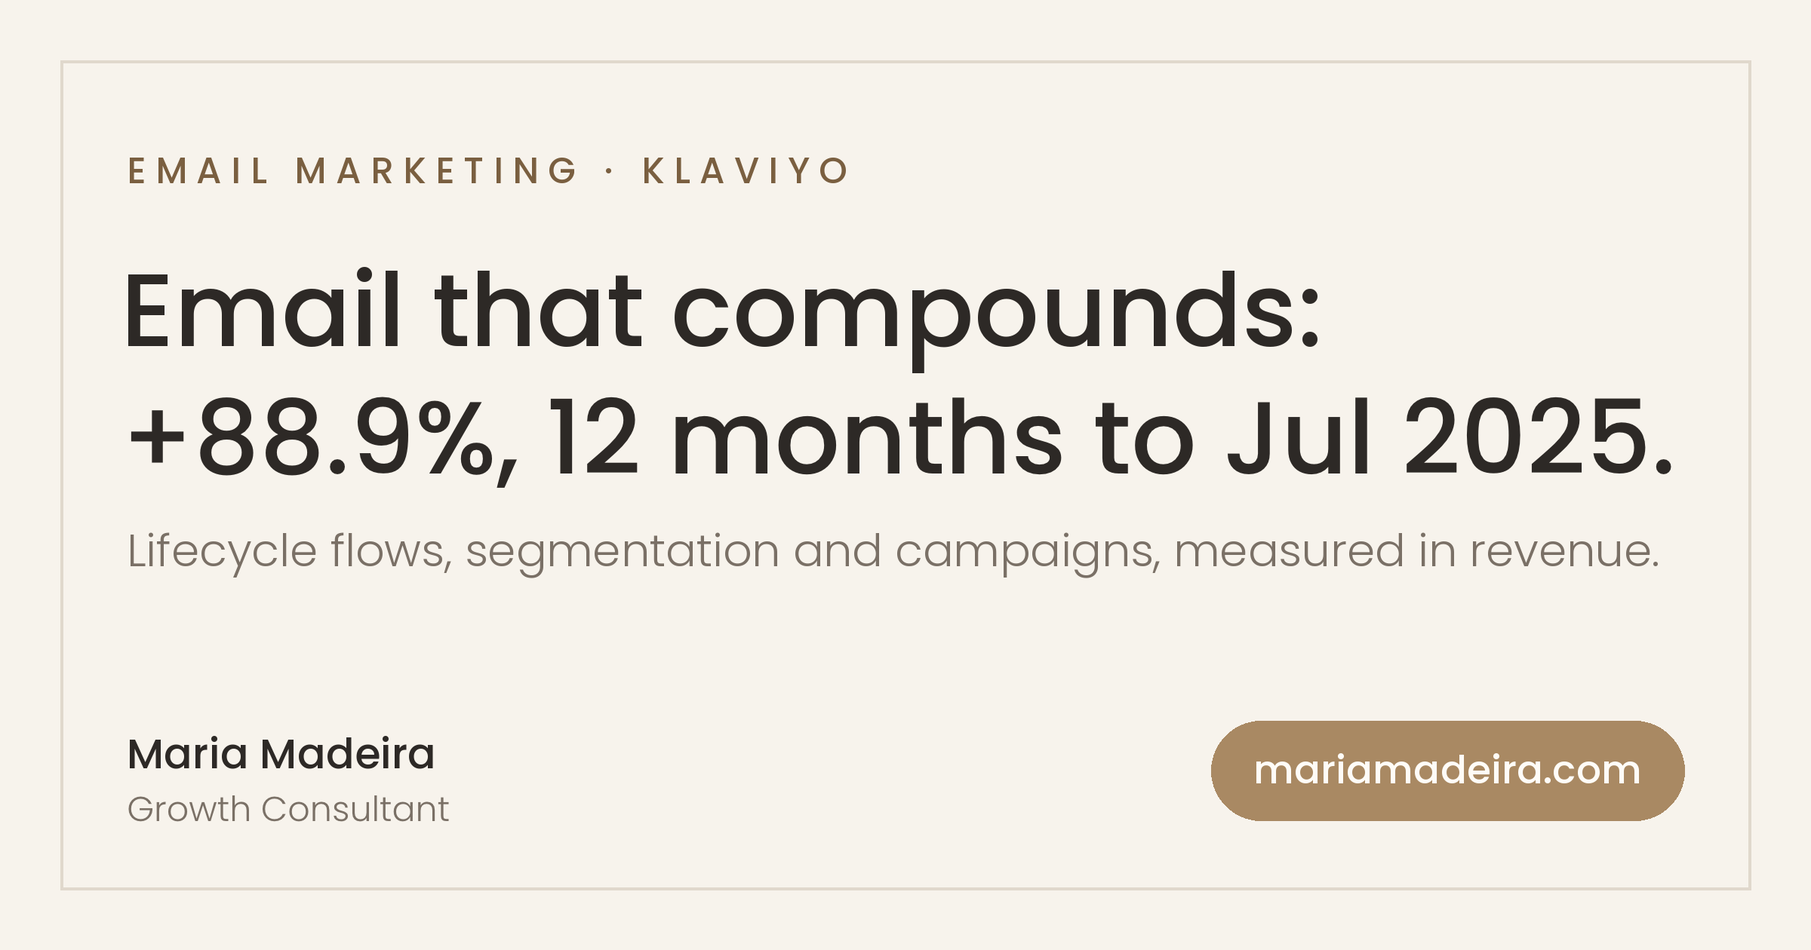
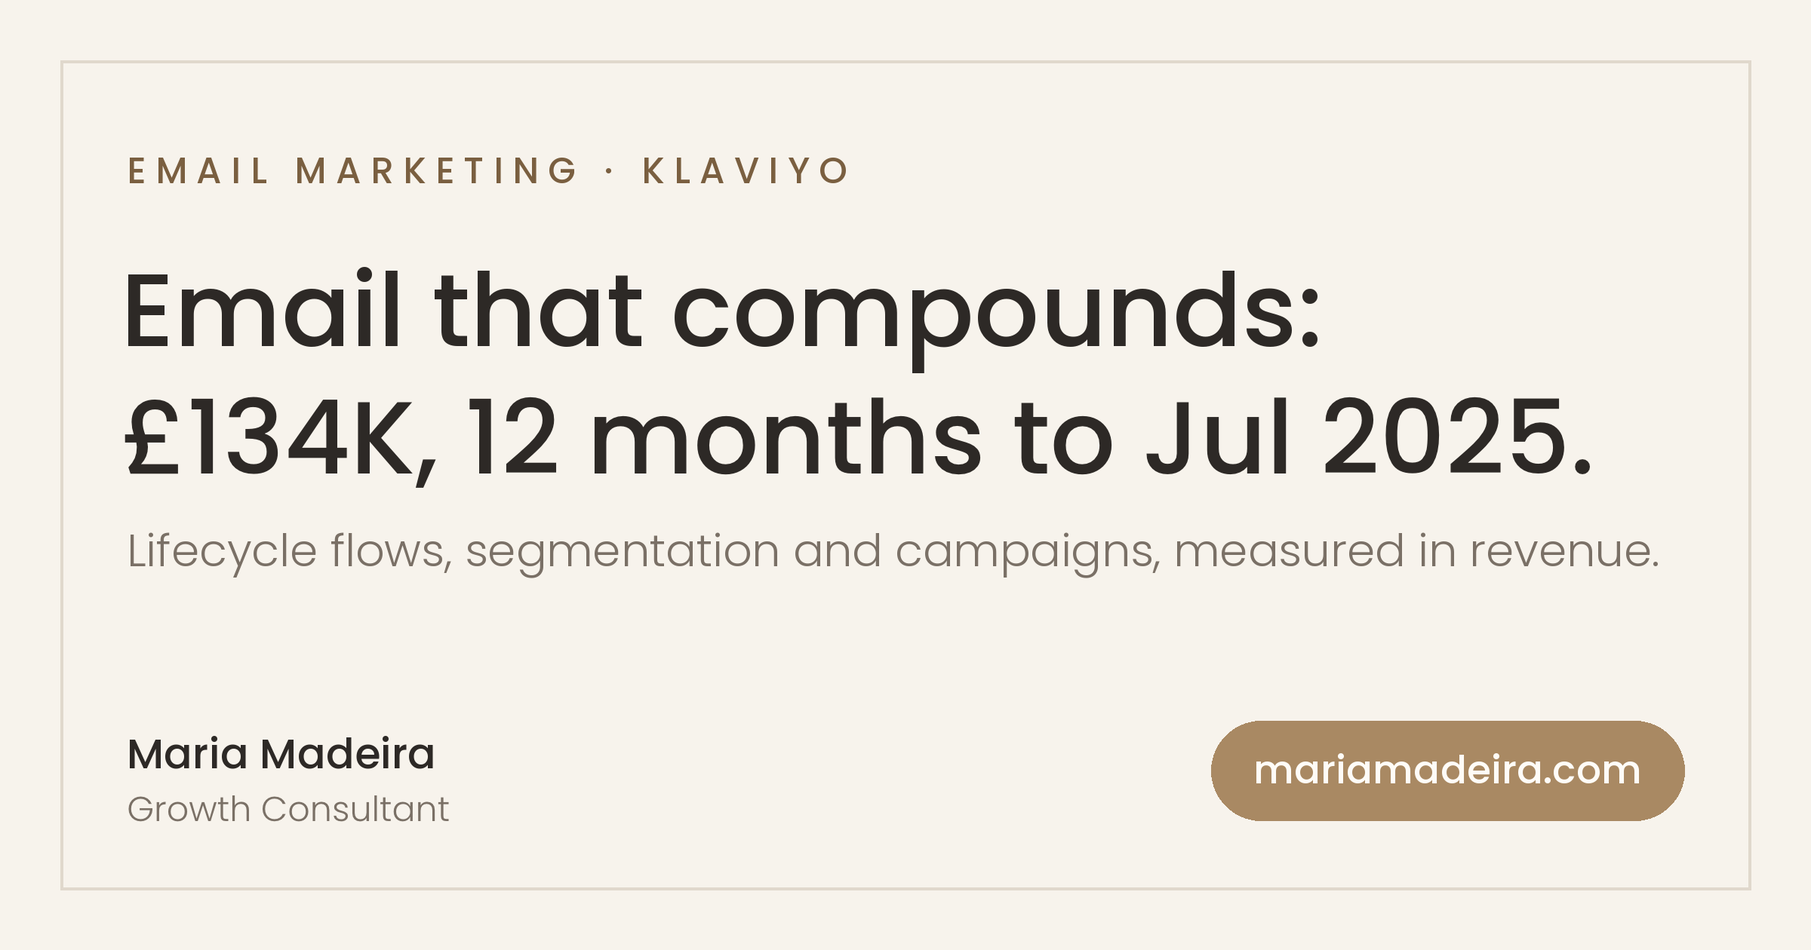
Compliance pass: owner's Parts 1-3 and OG numbers, verified
Five years of experience everywhere, with the email data period written
out (September 2021 to July 2025). The Black Farmer only on /about,
/pt/sobre, the SEO case study, the homepage logo strip and Wilfred's
testimonial; never in the Person schema or near email revenue. Email
numbers and labels follow Maria's Klaviyo exports: c. £71K -> £134K
(+88.9%), calendar-year chart 2022-2024 only, 50.4% average campaign
open rate (12 months to July 2025) vs 28.1% in 2022, over a third of
store revenue. OG cards for the email and SEO case studies and the
email service redrawn to match. Independent verification and fix pass
done; build, lint and Playwright checks clean.

Changed region(s): [[0.0625, 0.4024, 0.9375, 0.5262]]

diff --git a/src/i18n/pt/about.ts b/src/i18n/pt/about.ts
@@ -33,7 +33,7 @@ const pt: typeof en = {
     paragraphs: [
         "Sou consultora de crescimento independente, baseada em Lisboa. Ajudo marcas de e-commerce em Portugal e no Reino Unido a serem encontradas no Google e na pesquisa com IA, e a crescer com email marketing no Klaviyo e anúncios pagos. Sou Klaviyo Partner oficial.",
         "Durante cinco anos trabalhei com Wilfred Emmanuel-Jones no negócio online da The Black Farmer: email, e-commerce, anúncios, SEO, criativos e o lançamento da app. Hoje faço o mesmo trabalho, de forma independente, para marcas no Reino Unido e em Portugal.",
-        "A maior parte da minha experiência é em e-commerce de alimentação e bebidas, e os resultados estão publicados com os números e os períodos. Um programa no Klaviyo para uma marca de alimentação premium do Reino Unido passou de três para catorze fluxos automáticos e trouxe £134K nos 12 meses até julho de 2025, mais de um terço da receita da loja. O Google Ads para uma marca de alimentação do Reino Unido teve um retorno de 532% face a um ponto de equilíbrio de 400% em onze meses. O SEO e a pesquisa com IA para a The Black Farmer, depois da mudança de WooCommerce para Shopify, trouxeram mais 78% de cliques orgânicos em quatro meses.",
+        "A maior parte da minha experiência é em e-commerce de alimentação e bebidas, e os resultados estão publicados com os números e os períodos. Um programa no Klaviyo para uma marca de alimentação premium do Reino Unido passou de três para catorze fluxos automáticos. O Google Ads para uma marca de alimentação do Reino Unido teve um retorno de 532% face a um ponto de equilíbrio de 400% em onze meses. O SEO e a pesquisa com IA para a The Black Farmer, depois da mudança de WooCommerce para Shopify, trouxeram mais 78% de cliques orgânicos em quatro meses.",
         "Os sites fazem parte do mesmo trabalho. Em Portugal, construí um site de reservas bilingue para a The Bodysurf School, no ar num mês, com pagamentos por MB Way e Multibanco para cinco locais na costa. Para a dePapier Translations, uma tradutora certificada, tratei do domínio próprio e do email profissional e construí um site bilingue em cerca de sete semanas.",
         "Fala diretamente com quem faz o trabalho. Trago os dados do Google Search Console, do Semrush e do Ahrefs, uso a IA para me ajudar a analisá-los e a redigir, e sou eu quem decide e aprova tudo o que vai para o ar. As campanhas de anúncios correm nas suas próprias contas, que ficam consigo. Trabalho em português e em inglês, à distância, no fuso horário do Reino Unido, que é o de Portugal.",
         "Antes do marketing, estudei design de moda e têxtil e depois jornalismo, e em 2025 fiz uma pós-graduação em IA para o design. A lista completa de certificações e formação está abaixo, com links para verificar os certificados do Klaviyo.",

diff --git a/src/i18n/en/about.ts b/src/i18n/en/about.ts
@@ -11,7 +11,7 @@ const en = {
     paragraphs: [
         "I'm an independent growth consultant based in Lisbon, Portugal. I help e-commerce brands in the UK and Portugal get found on Google and in AI search, and grow revenue with Klaviyo email marketing and paid ads. I'm an official Klaviyo Partner.",
         "For five years I worked with Wilfred Emmanuel-Jones on The Black Farmer's online business: email, e-commerce, ads, SEO, creative and the launch of the app. Today I do the same work, independently, for brands in the UK and Portugal.",
-        "Most of my experience is in food and drink e-commerce, and the results are published with their figures and periods. A Klaviyo programme for a UK premium food brand grew from three automated flows to fourteen and brought in £134K in the 12 months to July 2025, over a third of store revenue. Google Ads for a UK food brand returned 532% against a 400% break-even over eleven months. SEO and AI search for The Black Farmer, after its move from WooCommerce to Shopify, lifted organic clicks 78% in four months.",
+        "Most of my experience is in food and drink e-commerce, and the results are published with their figures and periods. A Klaviyo programme for a UK premium food brand grew from three automated flows to fourteen. Google Ads for a UK food brand returned 532% against a 400% break-even over eleven months. SEO and AI search for The Black Farmer, after its move from WooCommerce to Shopify, lifted organic clicks 78% in four months.",
         "Websites are part of the same work. In Portugal I built a bilingual booking site for The Bodysurf School, live in one month, with MB Way and Multibanco payments across five locations on the coast. For dePapier Translations, a certified translator, I set up her own domain and business email and built a bilingual site in about seven weeks.",
         "You speak to the person doing the work. I bring the data from Google Search Console, Semrush and Ahrefs, use AI to help analyse it and draft, and decide and approve everything that goes live myself. Ad campaigns run in your own accounts, and you keep them. I work in English and Portuguese, remotely, in the UK time zone.",
         "Before marketing I studied fashion and textile design, then journalism, and in 2025 I took a postgraduate programme in AI for design. The full list of certificates and education is below, with links to verify the Klaviyo certificates.",

diff --git a/src/i18n/pt/caseStudyEmail.ts b/src/i18n/pt/caseStudyEmail.ts
@@ -5,6 +5,7 @@ const pt: typeof en = {
     path: "/pt/caso-email",
     title: "Caso de estudo Klaviyo: £134K num ano | Maria Madeira",
     description: "Caso Klaviyo: £134K de receita de email nos 12 meses até julho de 2025, +88,9% face a c. £71K nos 12 meses anteriores (até julho de 2024).",
+    ogImageAlt: "Receita de email: c. £71K nos 12 meses anteriores (até julho de 2024) para £134K nos 12 meses até julho de 2025, marca de alimentação premium do Reino Unido",
     h1: "De setembro de 2021 a julho de 2025: o email chegou a £134K por ano e a mais de um terço da receita da loja",
     subtitle: "Um programa de email no Klaviyo, ao longo de todo o ciclo de vida do cliente, para uma marca de alimentação premium do Reino Unido: a receita de email atribuída chegou a £134K nos 12 meses até julho de 2025, mais 88,9% face a c. £71K nos 12 meses anteriores (até julho de 2024).",
     breadcrumb: "Email marketing",
@@ -31,7 +32,7 @@ const pt: typeof en = {
     rates: [
         { before: "28,1%", after: "50,4%", badge: "percentil 78", label: "taxa de abertura média das campanhas, 2022 vs. 12 meses até julho de 2025, face ao benchmark do setor do Klaviyo" },
         { before: null, after: "mais de um terço", badge: null, label: "da receita total da loja atribuída ao email, 12 meses até julho de 2025" },
-        { before: "8,5%", after: "7,3%", badge: "-1,2 pontos", label: "taxa de clique dos fluxos, 2024 vs. 12 meses até julho de 2025, com muitas mais pessoas a receber fluxos" },
+        { before: "8,5%", after: "7,3%", badge: null, label: "taxa de clique dos fluxos, 2024 vs. 12 meses até julho de 2025, com muitas mais pessoas a receber fluxos" },
     ],
     impactTitle: "Impacto principal",
     impact: "A receita de email atribuída subiu em todos os anos civis: £66,3K em 2022, £76,2K em 2023 e £113K em 2024. Nos 12 meses até julho de 2025 chegou a £134K, mais 88,9% face a c. £71K nos 12 meses anteriores (até julho de 2024), com £86,1K das campanhas e £48,3K dos fluxos. A taxa de abertura média das campanhas subiu de 28,1% em 2022 para 50,4% nos 12 meses até julho de 2025, e a receita das campanhas por destinatário de £0,030 para £0,081 nos mesmos dois períodos.",

diff --git a/src/i18n/en/caseStudyEmail.ts b/src/i18n/en/caseStudyEmail.ts
@@ -5,6 +5,8 @@ const en = {
     // title is a shorter sibling. The schema headline still carries the H1.
     title: "Klaviyo Case Study: £134K a Year From Email | Maria Madeira",
     description: "Klaviyo case study, UK premium food brand: £134K email revenue in the 12 months to July 2025, +88.9% on c. £71K in the previous 12 months (to July 2024).",
+    /* Describes the OG image (c. £71K to £134K, two 12-month windows). */
+    ogImageAlt: "Email revenue: c. £71K in the previous 12 months (to July 2024) to £134K in the 12 months to July 2025, UK premium food brand",
     h1: "September 2021 to July 2025: email grew to £134K a year and over a third of store revenue",
     // The client is not named on this page, so the brand is described rather
     // than identified. The hero subtitle doubles as the schema description.
@@ -34,7 +36,7 @@ const en = {
     rates: [
         { before: "28.1%" as string | null, after: "50.4%", badge: "78th percentile" as string | null, label: "average campaign open rate, 2022 vs the 12 months to July 2025, against Klaviyo's industry benchmark" },
         { before: null as string | null, after: "over a third", badge: null as string | null, label: "of total store revenue attributed to email, 12 months to July 2025" },
-        { before: "8.5%" as string | null, after: "7.3%", badge: "-1.2 pts" as string | null, label: "flow click rate, 2024 vs 12 months to July 2025, as far more people received flows" },
+        { before: "8.5%" as string | null, after: "7.3%", badge: null as string | null, label: "flow click rate, 2024 vs 12 months to July 2025, as far more people received flows" },
     ],
     impactTitle: "Key Impact",
     impact: "Attributed email revenue rose every calendar year: £66.3K in 2022, £76.2K in 2023 and £113K in 2024. In the 12 months to July 2025 it reached £134K, up 88.9% on c. £71K in the previous 12 months (to July 2024), with £86.1K from campaigns and £48.3K from flows. The average campaign open rate rose from 28.1% in 2022 to 50.4% in the 12 months to July 2025, and campaign revenue per recipient from £0.030 to £0.081 over the same two periods.",

diff --git a/src/i18n/pt/klaviyoFlows.ts b/src/i18n/pt/klaviyoFlows.ts
@@ -114,10 +114,10 @@ const pt: typeof en = {
     v6Automated: "Email automático",
     v6Note: "Os dados da Omnisend sobre 150 000 marcas mostram quase exatamente a mesma diferença: os emails automáticos renderam 16 vezes mais por envio.",
 
-    real4: "Em 2024, os fluxos trouxeram 43% da receita de email desta marca, muito perto dos 41% dos benchmarks do Klaviyo.",
+    real4: "Em 2024, os fluxos trouxeram £48,2K dos £113K de receita de email desta marca, perto da quota de 41% dos benchmarks do Klaviyo.",
 
     oneFlowTitle: "Um fluxo pagou tudo o resto",
-    oneFlow: "O fluxo que mais rendeu não foi uma automação nova e engenhosa. Foi a série de boas-vindas para a lista das caixas da marca, que sozinha trouxe £23,6K nos doze meses até julho de 2025.",
+    oneFlow: "O fluxo que mais rendeu não foi uma automação nova e engenhosa. Foi a série de boas-vindas para a lista das caixas da marca, que sozinha trouxe £23,6K nos 12 meses até julho de 2025.",
 
     v7Big: "£23,6K",
     v7Line: "de uma só série de boas-vindas, 12 meses até julho de 2025",
@@ -132,7 +132,7 @@ const pt: typeof en = {
     v7Caption: "Exemplo ilustrativo, não é o email real da marca.",
 
     honestTitle: "A parte honesta",
-    honest: "Nem todos os números subiram. À medida que entravam mais fluxos no ar, a taxa de clique dos fluxos desceu de 8,5% em 2024 para 7,3% nos doze meses até julho de 2025, enquanto muitas mais pessoas passaram a receber fluxos. Mais fluxos chegam a mais pessoas, mas cada um precisa dos seus próprios testes, senão a média desce.",
+    honest: "Nem todos os números subiram. À medida que entravam mais fluxos no ar, a taxa de clique dos fluxos desceu de 8,5% em 2024 para 7,3% nos 12 meses até julho de 2025, enquanto muitas mais pessoas passaram a receber fluxos. Mais fluxos chegam a mais pessoas, mas cada um precisa dos seus próprios testes, senão a média desce.",
 
     v8Title: "Os seus primeiros 30 dias de fluxos",
     weeks: [

diff --git a/src/i18n/en/klaviyoFlows.ts b/src/i18n/en/klaviyoFlows.ts
@@ -120,10 +120,10 @@ const en = {
     v6Automated: "Automated email",
     v6Note: "Omnisend's data across 150,000 brands found almost exactly the same gap: automated emails earned 16 times more per send.",
 
-    real4: "In 2024, flows brought in 43% of this brand's email revenue, very close to the 41% in Klaviyo's benchmarks.",
+    real4: "In 2024, flows brought in £48.2K of this brand's £113K email revenue, close to the 41% share in Klaviyo's benchmarks.",
 
     oneFlowTitle: "One flow paid for everything else",
-    oneFlow: "The single biggest earner wasn't a clever new automation. It was the welcome series for the brand's box list, which brought in £23.6K in the twelve months to July 2025 on its own.",
+    oneFlow: "The single biggest earner wasn't a clever new automation. It was the welcome series for the brand's box list, which brought in £23.6K in the 12 months to July 2025 on its own.",
 
     /* Visual 7: an invented brand's welcome email */
     v7Big: "£23.6K",
@@ -139,7 +139,7 @@ const en = {
     v7Caption: "Illustrative example, not the brand's actual email.",
 
     honestTitle: "The honest part",
-    honest: "Not every number went up. As more flows went live, flow click rate fell from 8.5% in 2024 to 7.3% in the twelve months to July 2025, while far more people were receiving flows. More flows reach more people, but each one needs its own testing, or the average slips.",
+    honest: "Not every number went up. As more flows went live, flow click rate fell from 8.5% in 2024 to 7.3% in the 12 months to July 2025, while far more people were receiving flows. More flows reach more people, but each one needs its own testing, or the average slips.",
 
     /* Visual 8: the first 30 days */
     v8Title: "Your first 30 days of flows",

diff --git a/src/i18n/pt/caseStudySeo.ts b/src/i18n/pt/caseStudySeo.ts
@@ -27,7 +27,7 @@ const pt: typeof en = {
     searchSubline: "Google Search Console, períodos comparáveis de 28 dias, de maio a agosto de 2026",
     searchTop: [
         { before: "4,5K", after: "8,0K", badge: "+78%", label: "cliques orgânicos" },
-        { before: "15,2", after: "9,4", badge: "5,8 posições acima", label: "posição média no Google, em todas as pesquisas" },
+        { before: "15,2", after: "9,4", badge: "mais acima no Google", label: "posição média no Google, em todas as pesquisas" },
         { before: "479K", after: "997K", badge: "+108%", label: "impressões na pesquisa" },
     ],
     searchMore: [
@@ -63,6 +63,8 @@ const pt: typeof en = {
     quote: "what meat has no gluten? give me a list of gluten-free sausages",
     quoteNote: "(pesquisa original em inglês)",
     quoteCaption: "Uma pesquisa real, em forma de conversa, registada no Search Console. A página Gluten-Free Sausages apareceu na resposta e foi clicada: o primeiro clique documentado do site vindo de uma pergunta ao estilo da IA.",
+    visibilityLabels: ["Líder da categoria", "The Black Farmer", "Concorrente", "Concorrente", "Concorrente"],
+    visibilityDesc: "Gráfico de barras horizontais com a pontuação no Semrush AI Visibility de cinco marcas acompanhadas. O líder da categoria tem 31, a The Black Farmer 27 e outros três concorrentes 22, 22 e 14. Só a The Black Farmer está destacada.",
     sources: "Fontes: Google Search Console (relatório Generative AI features, disponível desde 18 de maio de 2026), Semrush AI Visibility, agosto de 2026.",
     serviceLink: "SEO e AEO",
     nextLink: "Google Ads: cinco libras de retorno por cada libra investida",

diff --git a/src/i18n/en/caseStudySeo.ts b/src/i18n/en/caseStudySeo.ts
@@ -21,7 +21,7 @@ const en = {
     searchSubline: "Google Search Console, matched 28-day windows, May to August 2026",
     searchTop: [
         { before: "4.5K", after: "8.0K", badge: "+78%", label: "organic clicks" },
-        { before: "15.2", after: "9.4", badge: "5.8 places higher", label: "average Google position, across all queries" },
+        { before: "15.2", after: "9.4", badge: "higher on Google", label: "average Google position, across all queries" },
         { before: "479K", after: "997K", badge: "+108%", label: "search impressions" },
     ],
     searchMore: [
@@ -60,6 +60,10 @@ const en = {
     quote: "what meat has no gluten? give me a list of gluten-free sausages",
     quoteNote: "",
     quoteCaption: "A real conversational query from Search Console. The Gluten-Free Sausages page was shown in the answer and clicked: the site's first documented click from an AI-style question.",
+    /* AI Visibility chart: kept here, not in resultCharts.ts, so the client's
+       name ships only with this case study. */
+    visibilityLabels: ["Category leader", "The Black Farmer", "Competitor", "Competitor", "Competitor"],
+    visibilityDesc: "Horizontal bar chart of Semrush AI Visibility scores across five tracked brands. The category leader scores 31, The Black Farmer 27, and three further competitors score 22, 22 and 14. Only The Black Farmer is highlighted.",
     sources: "Sources: Google Search Console (Generative AI features report, available from 18 May 2026), Semrush AI Visibility, August 2026.",
     serviceLink: "SEO and AEO",
     nextLink: "Google Ads: five pounds back for every pound spent",

diff --git a/src/components/ResultCharts.tsx b/src/components/ResultCharts.tsx
@@ -540,9 +540,9 @@ function AiImpressionsLine({ variant, desc }: ChartVariantProps) {
 }
 
 /* ── Chart: Semrush AI Visibility across the tracked set ── */
-function AiVisibilityBars({ variant, desc }: ChartVariantProps) {
+function AiVisibilityBars({ variant, desc, labels }: ChartVariantProps & { labels: string[] }) {
     const c = COPY[useLang().lang].ai;
-    const rows = VISIBILITY.map((row, i) => ({ ...row, label: c.visibilityLabels[i] }));
+    const rows = VISIBILITY.map((row, i) => ({ ...row, label: labels[i] }));
     const wide = variant === "wide";
     const X_MAX = 35;
 
@@ -622,17 +622,18 @@ export function AiImpressionsChart() {
 }
 
 /** Horizontal bars of Semrush AI Visibility across the tracked set. */
-export function AiVisibilityChart() {
+/** Bar labels and description come from the SEO case study copy, which names
+ *  the client; this module also ships with the email and Google Ads case studies. */
+export function AiVisibilityChart({ labels, desc }: { labels: string[]; desc: string }) {
     const c = COPY[useLang().lang].ai;
-    const desc = c.visibilityDesc;
     return (
         <ChartFigure
             title={c.visibilityTitle}
             subtitle={c.visibilitySubtitle}
             headingLevel={3}
         >
-            <AiVisibilityBars variant="wide" desc={desc} />
-            <AiVisibilityBars variant="narrow" desc={desc} />
+            <AiVisibilityBars variant="wide" desc={desc} labels={labels} />
+            <AiVisibilityBars variant="narrow" desc={desc} labels={labels} />
         </ChartFigure>
     );
 }

diff --git a/src/i18n/pt/aiInformation.ts b/src/i18n/pt/aiInformation.ts
@@ -31,7 +31,7 @@ const pt: typeof en = {
     resultsTitle: "Resultados publicados",
     results: [
         { to: "/case-study-seo", lead: "Caso de estudo de SEO e AEO, depois de uma mudança para Shopify", rest: ": as impressões diárias nas funcionalidades de IA da Google cresceram 2,2x, da primeira para a última semana, de maio a agosto de 2026." },
-        { to: "/case-study-email", lead: "Email marketing para uma marca de alimentação premium do Reino Unido", rest: ": £134K vindos do email nos doze meses até julho de 2025, mais de um terço da receita da loja." },
+        { to: "/case-study-email", lead: "Email marketing para uma marca de alimentação premium do Reino Unido", rest: ": £134K vindos do email nos 12 meses até julho de 2025, mais de um terço da receita da loja." },
         { to: "/case-study-google-ads", lead: "Google Ads para uma marca de alimentação do Reino Unido", rest: ": um retorno do investimento em anúncios de 532% face a um ponto de equilíbrio de 400%, £141K de receita atribuída a partir de £26,5K de investimento em anúncios, entre 1 de outubro de 2025 e 26 de agosto de 2026, com dez de onze meses acima do ponto de equilíbrio." },
     ],
     howTitle: "Como trabalha",

diff --git a/src/i18n/pt/emailMarketing.ts b/src/i18n/pt/emailMarketing.ts
@@ -25,7 +25,7 @@ const pt: typeof en = {
     definitionTitle: "Como é um bom email marketing",
     definition: "O email marketing de ciclo de vida gera receita num canal que é seu, com fluxos automáticos, segmentação e campanhas, e não com newsletters avulsas. Envia a mensagem certa ao cliente certo no momento certo, e mede-se em receita atribuída, não em aberturas.",
     curveTitle: "A curva que se acumula",
-    curveSub: "Números reais de um só cliente, do início até hoje.",
+    curveSub: "Números reais de um só cliente, de 2022 a julho de 2025.",
     curve: [
         { title: "Taxa de abertura média das campanhas", from: { label: "2022", value: "28,1%" }, to: { label: "12 meses até jul. 2025", value: "50,4%" }, note: "Percentil 78 face à referência do setor do Klaviyo, nos 12 meses até julho de 2025" },
         { title: "Receita atribuída ao email", from: { label: "12 meses anteriores (até jul. 2024)", value: "c. £71K" }, to: { label: "12 meses até jul. 2025", value: "£134K" }, note: "+88,9% face aos 12 meses anteriores (até julho de 2024)" },

diff --git a/src/i18n/en/emailMarketing.ts b/src/i18n/en/emailMarketing.ts
@@ -32,7 +32,7 @@ const en = {
     definitionTitle: "What great email looks like",
     definition: "Lifecycle email marketing is owned-channel revenue built on automated flows, segmentation and campaigns, not one-off newsletters. It sends the right message to the right customer at the right moment, and it is measured in attributed revenue rather than opens.",
     curveTitle: "The compounding curve",
-    curveSub: "Real figures from one engagement, start to now.",
+    curveSub: "Real figures from one engagement, 2022 to July 2025.",
     curve: [
         { title: "Average campaign open rate", from: { label: "2022", value: "28.1%" }, to: { label: "12 months to Jul 2025", value: "50.4%" }, note: "78th percentile against Klaviyo's industry benchmark in the 12 months to July 2025" },
         { title: "Email-attributed revenue", from: { label: "Previous 12 months (to Jul 2024)", value: "c. £71K" }, to: { label: "12 months to Jul 2025", value: "£134K" }, note: "+88.9% on the previous 12 months (to July 2024)" },
